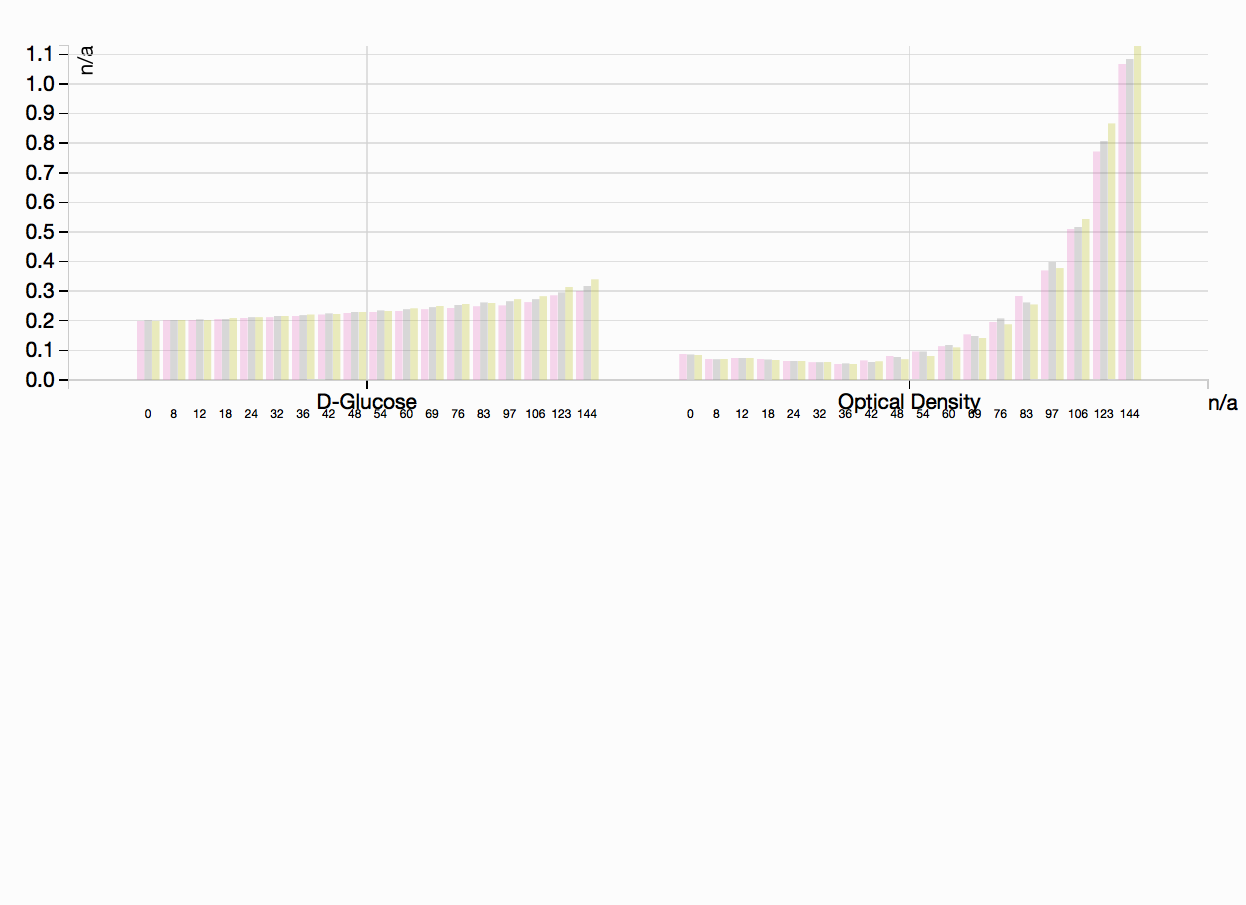
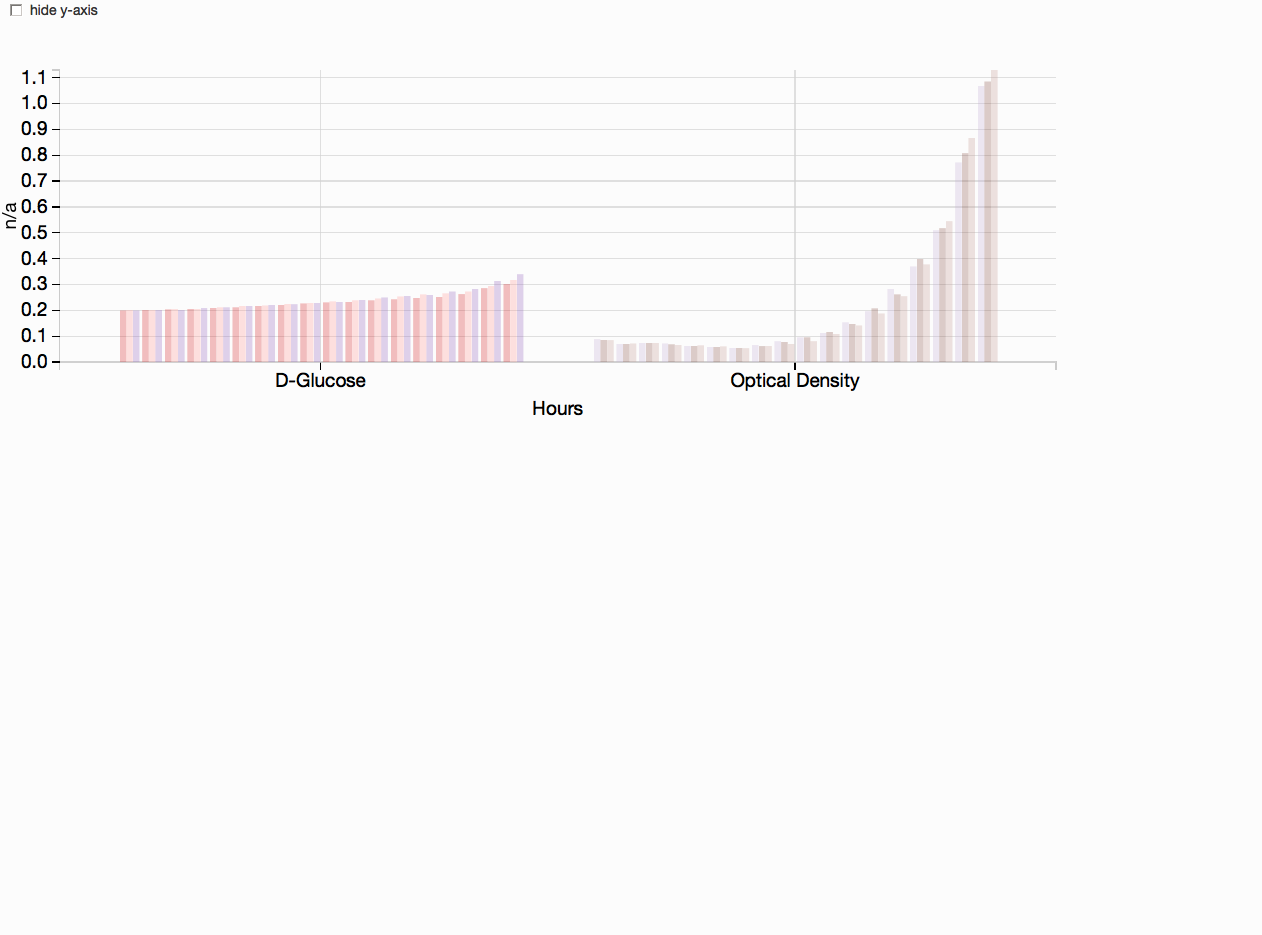
fixed grunt screenshots and min y value to 0 if ymin > 0

Changed region(s): [[0.0, 0.0, 0.9149, 0.4641], [0.9759, 0.4331, 1.0, 0.4641]]

diff --git a/main/fixtures/node-server/index.html b/main/fixtures/node-server/index.html
@@ -46,10 +46,8 @@
     <script type="text/javascript" src="/static/main/js/StudyCarbonBalance.js"></script>
     <script type="text/javascript" src="/static/main/js/StudySBMLExport.js"></script>
     <link rel="stylesheet" type="text/css" href="/static/main/style.css">
-    <script type="text/javascript" src="/static/main/js/CreateLineGraph.js"></script>
-    <script type="text/javascript" src="/static/main/js/GroupedBarTime.js"></script>
-    <script type="text/javascript" src="/static/main/js/GroupedBarAssay.js"></script>
-    <script type="text/javascript" src="/static/main/js/IndividualBarCharts.js"></script>
+
+    <script type="text/javascript" src="/static/main/js/CreateMultiAxisLine.js"></script>
     <script type="text/javascript" src="/static/main/js/GroupedBarMeasurement.js"></script>
 
 </head>
@@ -100,7 +98,7 @@
             </div>
             <div class="sectionActions discloseBody">
                 <form action="" class="edd-form" enctype="multipart/form-data" method="POST">
-                    <input type='hidden' name='csrfmiddlewaretoken' value='olFQEuX5yf8CarOAj83iprkCFYdKY3wn' />
+                    <input type='hidden' name='csrfmiddlewaretoken' value='tPEoQI4ML5WrGHPQovXnqQVjYNZYVhDG' />
                     <p><label for="id_study-name">Study Name</label> <input id="id_study-name" maxlength="255" name="study-name" size="50" type="text" value="CJJ-Test" /></p>
 <p><label for="id_study-description">Description</label> <textarea cols="100" id="id_study-description" name="study-description" rows="10">
 CJJ Test</textarea></p>
@@ -137,7 +135,7 @@ CJJ Test</textarea></p>
 
                 <div class="sectionActions">
                     <form method="POST" enctype="multipart/form-data" class="permissions edd-form off" action="">
-                        <input type='hidden' name='csrfmiddlewaretoken' value='olFQEuX5yf8CarOAj83iprkCFYdKY3wn' />
+                        <input type='hidden' name='csrfmiddlewaretoken' value='tPEoQI4ML5WrGHPQovXnqQVjYNZYVhDG' />
                         <span id="permission_user_box">
                         <label for="permission_user">
                             <input type="radio" id="permission_user" name="class" value="User" checked="checked"/>
@@ -178,7 +176,7 @@ CJJ Test</textarea></p>
                 <div class="sectionActions">
 
                     <form method="POST" enctype="multipart/form-data" class="attachments edd-form" action="">
-                        <input type='hidden' name='csrfmiddlewaretoken' value='olFQEuX5yf8CarOAj83iprkCFYdKY3wn' />
+                        <input type='hidden' name='csrfmiddlewaretoken' value='tPEoQI4ML5WrGHPQovXnqQVjYNZYVhDG' />
                         <p><label for="id_file">Attachment</label> <input id="id_file" name="file" type="file" /></p>
 <p><label for="id_description">Description</label> <input id="id_description" name="description" type="text" /></p>
                         <p><button type="submit" name="action" value="attach">Attach File</button></p>
@@ -197,7 +195,7 @@ CJJ Test</textarea></p>
                 </ol>
                 <div class="sectionActions">
                     <form method="POST" class="comments edd-form" action="">
-                        <input type='hidden' name='csrfmiddlewaretoken' value='olFQEuX5yf8CarOAj83iprkCFYdKY3wn' />
+                        <input type='hidden' name='csrfmiddlewaretoken' value='tPEoQI4ML5WrGHPQovXnqQVjYNZYVhDG' />
                         <p> <textarea cols="40" id="id_body" name="body" rows="10">
 </textarea></p>
                         <p><button type="submit" name="action" value="comment">Comment</button></p>
@@ -212,33 +210,55 @@ CJJ Test</textarea></p>
     </div>
     <div class="pageSection pageSectionTabContent" id="overviewSection">
         <div class="sectionContent">
-            <div class="btn-toolbar" id="chartType">
-                 <button class="btn btn-default btn-sm line" type="button"
-                         value="linechart">Line
-                    Graph</button>
-                <button class="btn btn-default btn-sm groupByTimeBar" value="timeBar">
-                        Bar graph grouped by time</button>
-                <button class="btn btn-default btn-sm singleBar" value="single">
-                        Bar graphs for each line entry</button>
-                <button class="btn btn-default btn-sm groupByProteinBar" value="groupedAssay">
-                        Bar graph grouped by line name</button>
-                <button class="btn btn-default btn-sm groupByMeasurementBar"
-                        value="groupedMeasurement">
-                        Bar graph grouped by measurement type</button>
+            <div class="btn-group" data-toggle="buttons" id="chartType">
+                <label class="btn btn-default btn-sm active line" style="margin-right:50px" >
+                    <input value="linechart" type="radio" name="options" id="option1" autocomplete="off" checked>
+                    <img src="/static/main/images/chart_curve.png" /> </label>
+                <label class="btn btn-default btn-sm groupByTimeBar" >
+                    <input value="timeBar" type="radio" name="options" id="option2"
+                           autocomplete="off">
+                    <img src="/static/main/images/chart_bar.png" /> Time
+                </label>
+                <label class="btn btn-default btn-sm groupByProteinBar">
+                    <input type="radio" name="options" id="option4" autocomplete="off"
+                           value="groupedAssay">
+                    <img src="/static/main/images/chart_bar.png" /> Name
+                </label>
+                <label class="btn btn-default btn-sm groupByMeasurementBar">
+                    <input type="radio" name="options" id="option5" value="groupedMeasurement" autocomplete="off">
+                    <img src="/static/main/images/chart_bar.png" /> Measurement
+                </label>
+                </div>
             </div>
-                <div class="linechart"></div>
-                <div class="timeBar"></div>
-                <div class="single"></div>
-                <div class="groupedAssay"></div>
-                <div class="groupedMeasurement"></div>
+                <div class="linechart">
+                    <div class="checkbox y-checkbox">
+                    <label><input type="checkbox" value="">hide y-axis</label>
+                    </div>
+                </div>
+                <div class="timeBar">
+                    <div class="checkbox y-checkbox">
+                    <label><input type="checkbox" value="">hide y-axis</label>
+                    </div>
+                </div>
+                <div class="groupedAssay">
+                    <div class="checkbox y-checkbox">
+                    <label><input type="checkbox" value="">hide y-axis</label>
+                    </div>
+                </div>
+                <div class="groupedMeasurement">
+                    <div class="checkbox y-checkbox">
+                    <label><input type="checkbox" value="">hide y-axis</label>
+                    </div>
+                </div>
 
             <div id="maingraph" class="graphContainer"></div>
-        </div>
+
         <div class="sectionChapter disclose discloseHide">
             <span class="discloseLink"><span>Filtering</span></span>
             <span class="tableControl" id="pointsDisplayedSpan"></span>
             <div id="mainFilterSection" class="filteringSection discloseBody">
                 <div class="filterTable"></div>
+            </div>
             </div>
         </div>
     </div>

diff --git a/main/fixtures/shot-wrapper.js b/main/fixtures/shot-wrapper.js
@@ -20,16 +20,14 @@ exports.takeShot = function(cb){
             //where the new captured screenshots are saved
             var arr = ['main/fixtures/newshots/groupedAssay.png',
                        'main/fixtures/newshots/linechart.png',
-                       'main/fixtures/newshots/single.png',
                        'main/fixtures/newshots/timeBar.png',
                        'main/fixtures/newshots/groupedMeasurement.png'];
 
             // original hash values from main/fixtures/originalshots
-            var originalHash = ['e7e30a6399026842efba2a9fc47455fb',
-                                '8d352252ea759d86063396bad715b799',
-                                'f52d467fbcd49b0fdd4ff1a817ad05f7',
-                                'bb8442da463044321604e86a40eae7fa',
-                                '198ad0f5cd34435eca033ef01275e7da'];
+            var originalHash = ['9edf3944c54ee83a142e09d6cf757994',
+                                '23426bc1cd40afd793b6466c88e09386',
+                                '62e8746b4399016dae9938a39f089b4f',
+                                '79772182eeb799c2a888e071e6e781f6'];
             //new hash values created from newshots
             var newHash = [];
 
@@ -42,7 +40,7 @@ exports.takeShot = function(cb){
                     console.log('Match: ' + arr[index].slice(23) + 'newHash' + newHash[index])
                 }
                 else {
-                    console.log('Image changed!m   d: '  + arr[index].slice(23) + 'newHash' + newHash[index])
+                    console.log('Image changed!m   d: '  + arr[index].slice(23) + ', newHash: ' + newHash[index])
                 }
             }
             process.exit(1);

diff --git a/main/fixtures/shots.js b/main/fixtures/shots.js
@@ -1,6 +1,6 @@
 
-var CLASSIDS = ['.linechart', '.single', '.groupedAssay', '.timeBar', '.groupedMeasurement'],
-    BUTTONIDS = ['.line', '.singleBar', '.groupByProteinBar', '.groupByTimeBar', '.groupByMeasurementBar'],
+var CLASSIDS = ['.linechart', '.groupedAssay', '.timeBar', '.groupedMeasurement'],
+    BUTTONIDS = ['.line', '.groupByProteinBar', '.groupByTimeBar', '.groupByMeasurementBar'],
     SCREENSHOT_WIDTH = 1280,
     SCREENSHOT_HEIGHT = 900,
     LOAD_WAIT_TIME = 5000,

diff --git a/main/static/main/js/CreateMultiAxisLine.js b/main/static/main/js/CreateMultiAxisLine.js
@@ -43,9 +43,15 @@ function createMultiLineGraph(graphSet, svg) {
     }))
     }
 
+
     graphSet.create_x_axis(graphSet, x, svg);
 
     for (var index = 0; index<numUnits; index++) {
+
+        if (yMin[index] > 0) {
+            yMin[index] = 0
+        }
+        
         y.domain([yMin[index], d3.max(unitMeasurementData[index], function (d) {
             return d3.max(d.values, function (d) {
                 return d.y;

diff --git a/typescript/src/StudyGraphing.ts b/typescript/src/StudyGraphing.ts
@@ -39,7 +39,7 @@ StudyDGraphing = {
             d3.select(selector[1]).style('display', 'none');
             d3.select(selector[4]).style('display', 'block');
             $('label.btn').removeClass('active');
-            var button =  $('.groupByMeasurementBar')[0]
+            var button =  $('.groupByMeasurementBar')[0];
             $(button).addClass('active');
         }
 

diff --git a/main/static/main/js/GroupedBarMeasurement.js b/main/static/main/js/GroupedBarMeasurement.js
@@ -105,6 +105,9 @@
     //loop through different units
     for (var index = 0; index<numUnits; index++) {
 
+        if (yMin[index] > 0 ) {
+            yMin[index] = 0;
+        }
         //y axis min and max domain 
         y.domain([yMin[index], d3.max(unitMeasurementData[index], function (d) {
             return d3.max(d.values, function (d) {
